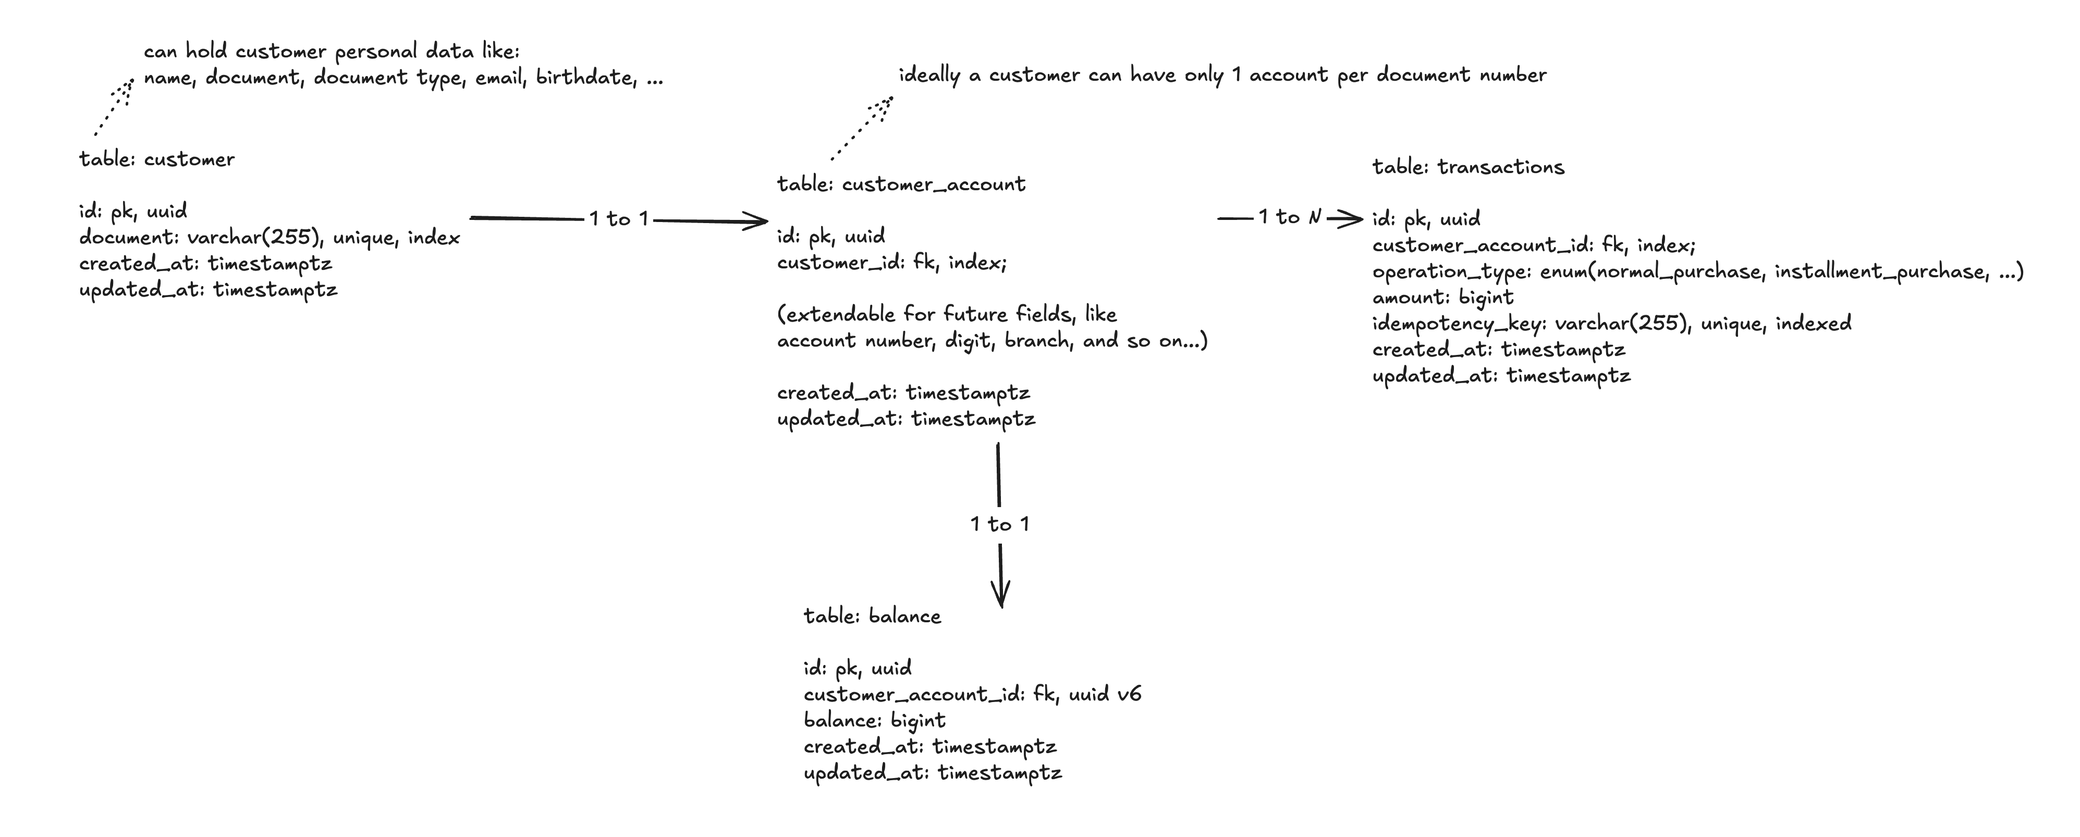
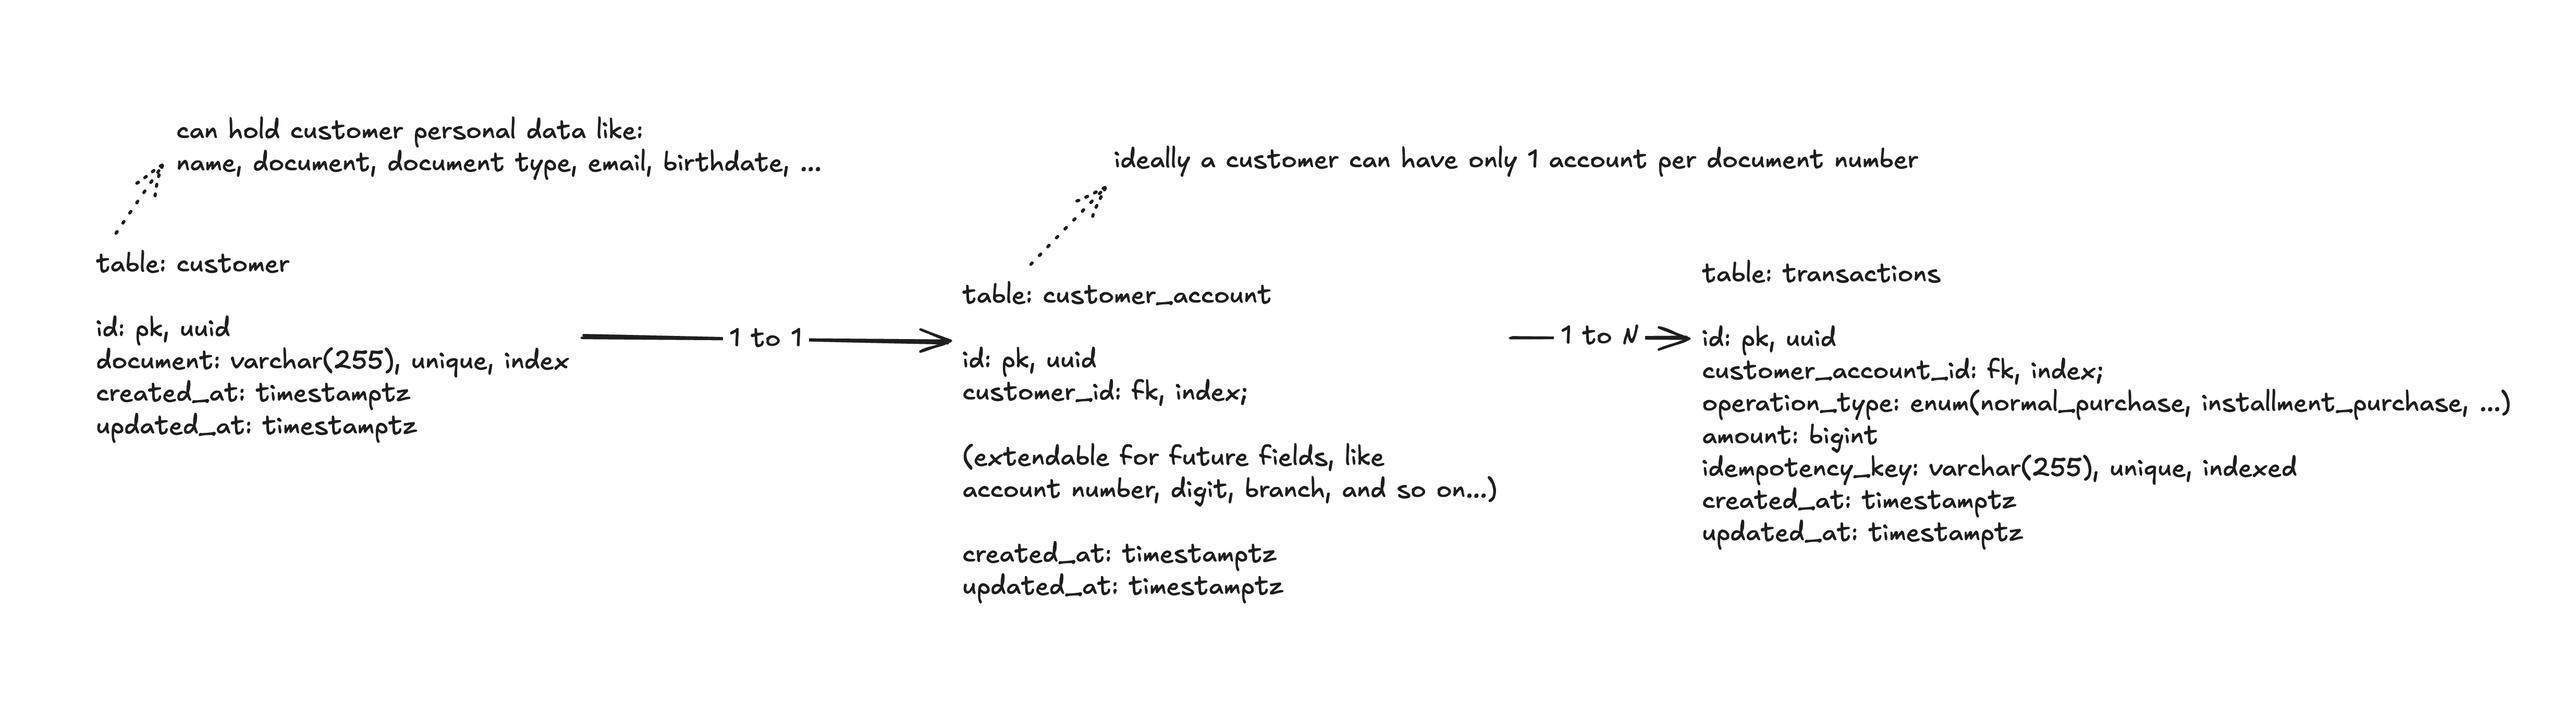
chore: update project documentation

diff --git a/README.md b/README.md
@@ -19,9 +19,7 @@ Meanwhile, the Customer entity is responsible for managing the customer informat
 
 For the transactions table, I decided to use the Operation Type as a enum to avoid having to store the operation type in the transaction table, as it's easier and simple to manage the operation types in the codebase (and avoid more JOIN operations).
 
-The balance table was a bonus feature, since we're dealing with transactions/money I thought it would be a good idea to have a balance table to keep track of the balance of the customer account under the hood.
-
-The idempotency key on the transactions table was also a bonus feature, since we're dealing with transactions/money I thought it would be a good idea to have a idempotency key to prevent duplicate transactions. As it was not mandatory, I let it as an optional field.
+The idempotency key on the transactions table is a bonus feature, since we're dealing with transactions/money I thought it would be a good idea to have a idempotency key to prevent duplicate transactions. As it was not mandatory, I let it as an optional field.
 
 ### Project structure
 
@@ -53,15 +51,15 @@ The idempotency key on the transactions table was also a bonus feature, since we
 
 I tried to follow the Go convention for the project structure, and also implement a kind of hexagonal architecture, with the API layer, the domain layer and the data access layer.
 
-Each package is a module for handling a specific responsibility, for example the accounts package is responsible for handling customer accounts related operations.
+Each package is a module for handling a specific domain/responsibility, for example the accounts package is responsible for handling customer accounts related operations.
 
 Inside each module, you'll find the following files:
 
 - `handler.go`: Responsible for handling the HTTP requests, initial payload validation/parsing, responses and transformation from the domain layer to the API layer.
 - `service.go`: Responsible for handling the business logic.
 - `domain.go`: Responsible for defining the domain entities, to not expose the database models straight to the API layer.
-- `request.go`: Responsible for defining the request payloads for the API layer.
-- `response.go`: Responsible for defining the response payloads for the API layer.
+- `request.go`: Responsible for defining the request payloads for the API layer. In other words the inputs of our application.
+- `response.go`: Responsible for defining the response payloads for the API layer. In other words the outputs of our application.
 
 Besides that, I separated the models and repositories into different packages, since they are usually used in multiple modules, and it's easier to avoid circular dependencies.
 
@@ -129,7 +127,6 @@ The pipeline is configured to run on every push to the main branch, and on every
 
 - Today the API layer is a little bit coupled to the domain layer, since the request is being passed straight to the domain layer, ideally if we would like to make things very decoupled and "loyal" to the hexagonal or some onion architecture, we would need to create a kind of adapter layer to handle the request and response transformations, and create much more boilerplate code, that wouldn't be worth it for this small project.
 - Also, I created a package to handle errors in a more structured way, using a "common error" pattern. Today it adds http behaviors to the domain layer, that is not so aproppriate, but it's a good way to start handling errors with a more structured approach.
-- As I added the balance table, I also had to implement a lock strategy to avoid race conditions when updating the balance, using the `FOR UPDATE` clause in the SQL query.
 - The tests organization today are a little bit messy, would be nice to better organize them in the future and make things more modular and easier to maintain.
 - And thinking about deploying this application to a production environment, we would need to add some things like:
   - Authentication: since today everyone can create an account and make transactions, we would need to add some kind of authentication to the API.
